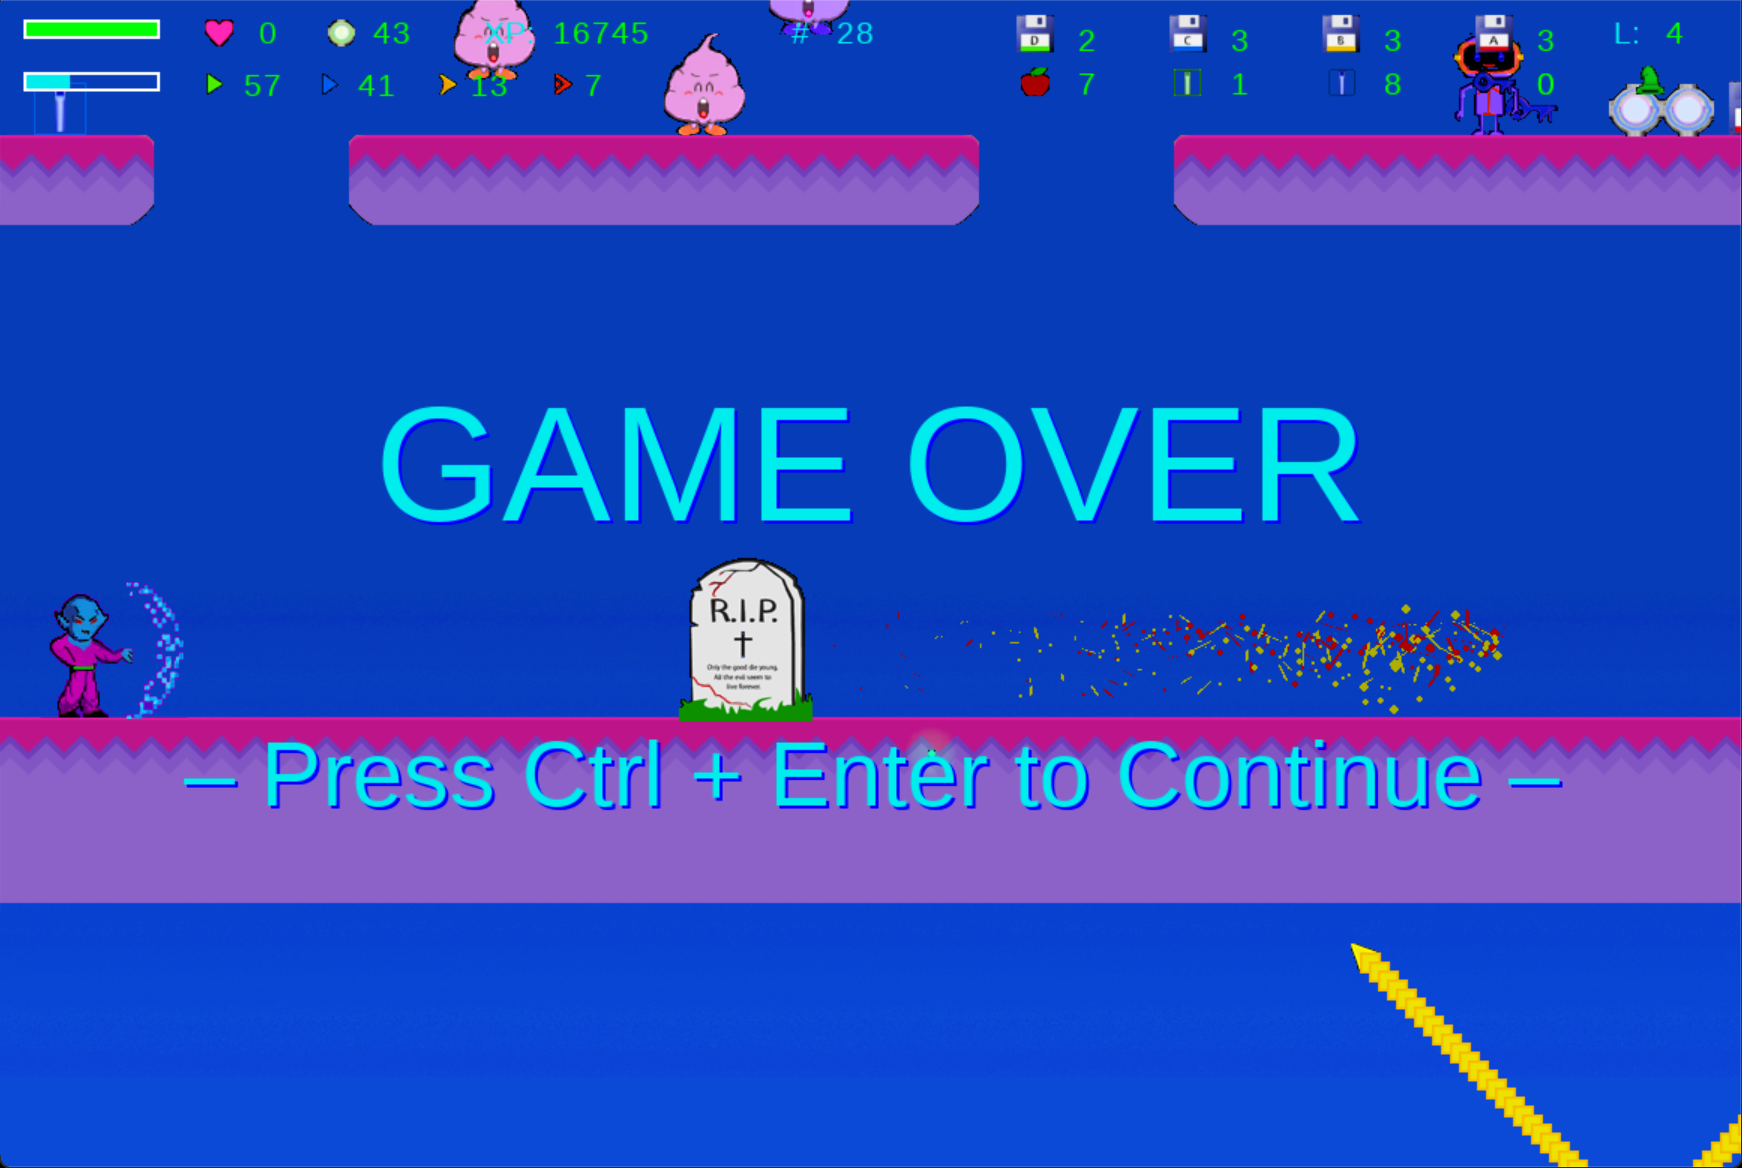
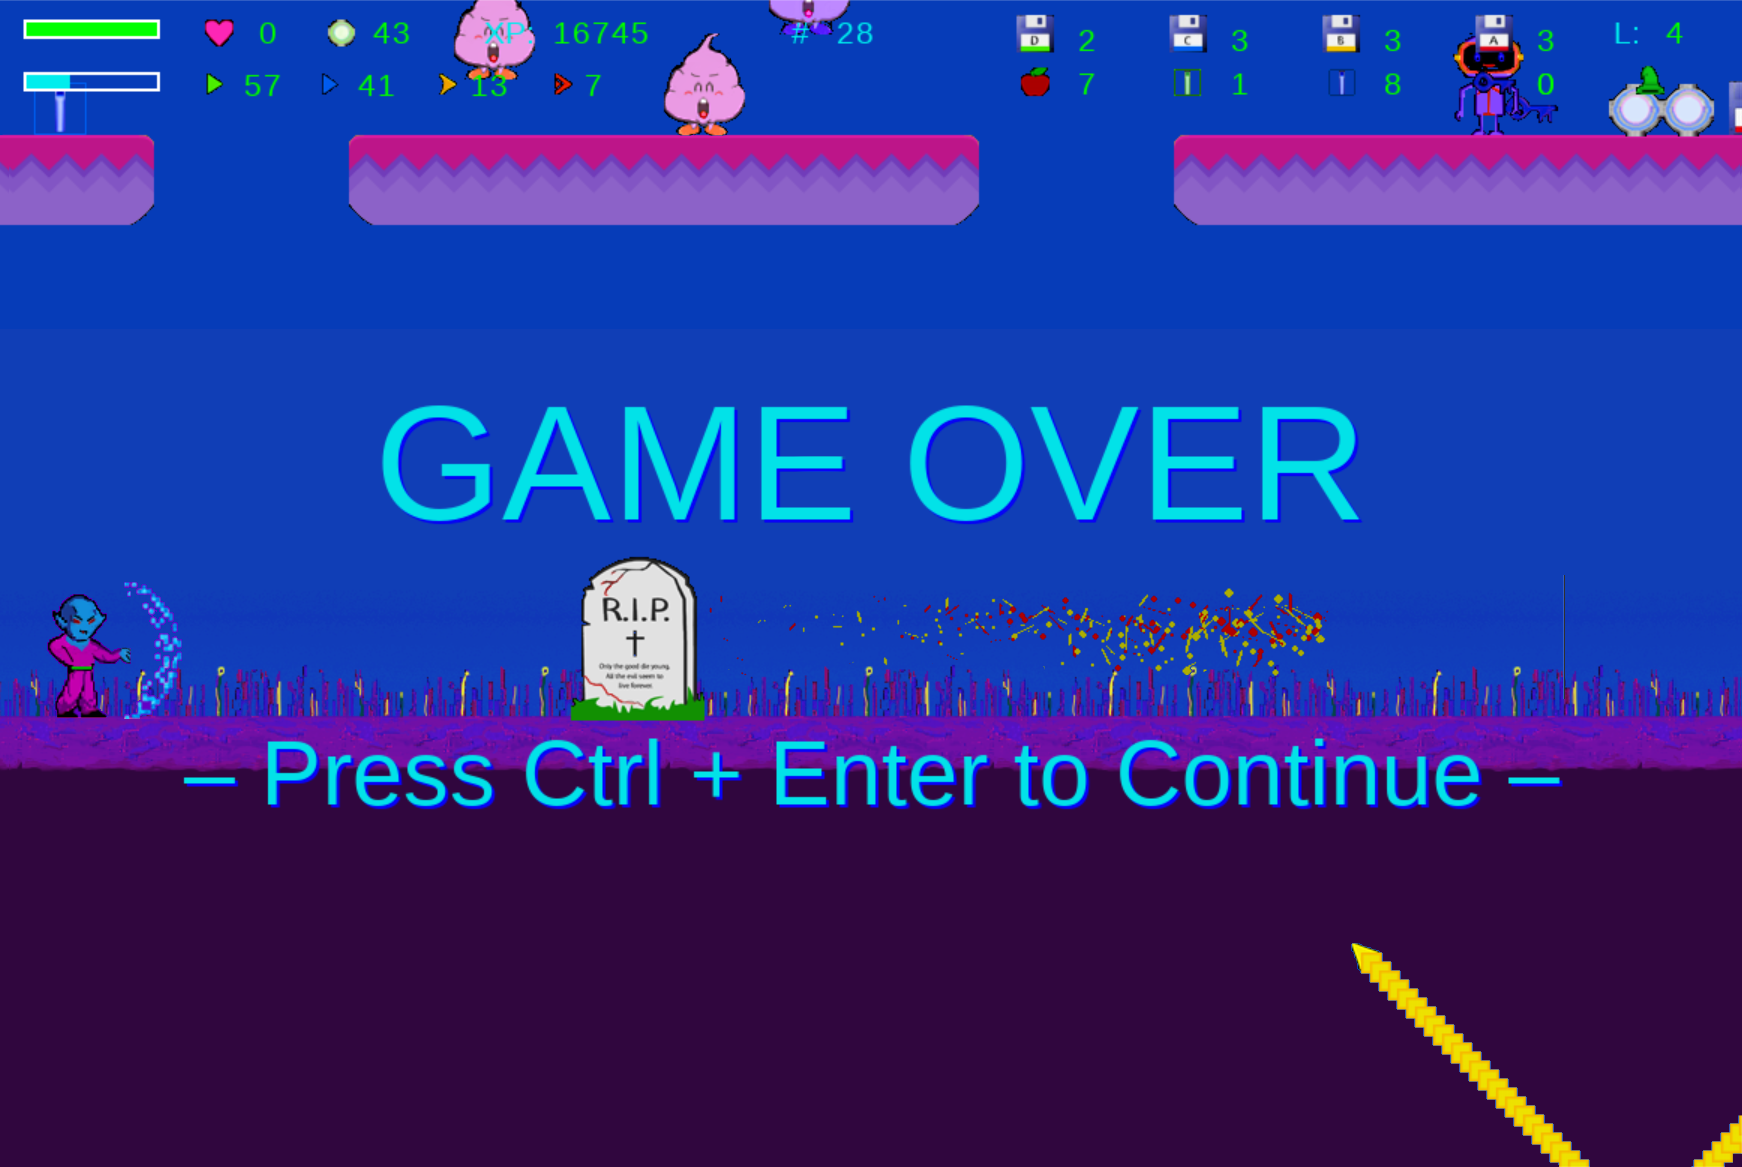
[IMP] Add grass to the rest of the levels. Also, improve documentation.

diff --git a/suiteoftests/levels/level_test_05.py b/suiteoftests/levels/level_test_05.py
@@ -109,7 +109,7 @@ class LevelTest5(Level):
 
         # Add doors
         self.doors.add([
-            DoorLeftMagenta(2, 550, self.game, level_dest=3, door_dest_pos=DOOR_DEST_NL, is_locked=True),
+            DoorLeftMagenta(0, 550, self.game, level_dest=3, door_dest_pos=DOOR_DEST_NL, is_locked=True),
             DoorRightGreen(3480, 52, self.game, level_dest=6, door_dest_pos=DOOR_DEST_TR, is_locked=True),
             DoorRightYellow(3640, 550, self.game, level_dest=5, door_dest_pos=DOOR_DEST_NL, is_locked=True),
             ])

diff --git a/suiteoftests/levels/level_test_03.py b/suiteoftests/levels/level_test_03.py
@@ -106,7 +106,7 @@ class LevelTest3(Level):
 
         # Add doors
         self.doors.add([
-            DoorLeftGreen(2, 550, self.game, level_dest=1, door_dest_pos=DOOR_DEST_NL, is_locked=True),
+            DoorLeftGreen(0, 550, self.game, level_dest=1, door_dest_pos=DOOR_DEST_NL, is_locked=True),
             DoorRightAqua(3368, -18, self.game, level_dest=3, door_dest_pos=DOOR_DEST_TR, is_locked=True),
             DoorRightBlue(3640, 550, self.game, level_dest=3, door_dest_pos=DOOR_DEST_NL, is_locked=True),
             ])

diff --git a/suiteoftests/levels/level_test_09.py b/suiteoftests/levels/level_test_09.py
@@ -89,7 +89,7 @@ class LevelTest9(Level):
 
         # Add doors
         self.doors.add([
-            DoorLeftYellow(2, 550, self.game, level_dest=7, door_dest_pos=DOOR_DEST_NL, is_locked=True),
+            DoorLeftYellow(0, 550, self.game, level_dest=7, door_dest_pos=DOOR_DEST_NL, is_locked=True),
             DoorRightAqua(3368, -18, self.game, level_dest=0, door_dest_pos=DOOR_DEST_TR, is_locked=True),
             DoorRightBlue(3640, 550, self.game, level_dest=0, door_dest_pos=DOOR_DEST_NL, is_locked=True),
             ])

diff --git a/codemaster/levels/level_04.py b/codemaster/levels/level_04.py
@@ -139,7 +139,7 @@ class Level4(Level):
         # Add doors
         self.doors.add([
             DoorRightBlue(3500, 550, self.game, level_dest=0, door_dest_pos=DOOR_DEST_NL),
-            DoorLeftYellow(2, 550, self.game, level_dest=2, door_dest_pos=DOOR_DEST_NL),
+            DoorLeftYellow(0, 550, self.game, level_dest=2, door_dest_pos=DOOR_DEST_NL),
             DoorRightYellow(2854, -179, self.game, level_dest=4, door_dest_pos=DOOR_DEST_NL, is_locked=True),
             ])
 

diff --git a/codemaster/levels/level_06.py b/codemaster/levels/level_06.py
@@ -237,7 +237,7 @@ class Level6(Level):
 
         # Add doors
         self.doors.add([
-            DoorLeftRed(2, 550, self.game, level_dest=4, door_dest_pos=DOOR_DEST_NL),
+            DoorLeftRed(0, 550, self.game, level_dest=4, door_dest_pos=DOOR_DEST_NL),
             DoorLeftAqua(2786, -90, self.game, level_dest=8, door_dest_pos=DOOR_DEST_TR, is_locked=True),
             DoorRightGreen(3400, 550, self.game, level_dest=6, door_dest_pos=DOOR_DEST_NL),
             ])

diff --git a/codemaster/levels/level_13.py b/codemaster/levels/level_13.py
@@ -105,7 +105,7 @@ class Level13(Level):
 
         # Add doors
         self.doors.add([
-            DoorLeftAqua(2, 550, self.game, level_dest=11, door_dest_pos=DOOR_DEST_NL),
+            DoorLeftAqua(0, 550, self.game, level_dest=11, door_dest_pos=DOOR_DEST_NL),
             DoorRightMagenta(3480, 52, self.game, level_dest=16, door_dest_pos=DOOR_DEST_TR),
             DoorRightGreen(3640, 550, self.game, level_dest=13, door_dest_pos=DOOR_DEST_NL),
             ])

diff --git a/codemaster/levels/level_17.py b/codemaster/levels/level_17.py
@@ -122,7 +122,7 @@ class Level17(Level):
 
         # Add doors
         self.doors.add([
-            DoorLeftRed(2, 550, self.game, level_dest=15, door_dest_pos=DOOR_DEST_NL),
+            DoorLeftRed(0, 550, self.game, level_dest=15, door_dest_pos=DOOR_DEST_NL),
             DoorRightMagenta(3368, -18, self.game, level_dest=12, door_dest_pos=DOOR_DEST_TR),
             DoorRightYellow(3640, 550, self.game, level_dest=17, door_dest_pos=DOOR_DEST_NL),
             ])

diff --git a/codemaster/levels/level_22.py b/codemaster/levels/level_22.py
@@ -116,7 +116,7 @@ class Level22(Level):
 
         # Add doors
         self.doors.add([
-            DoorLeftYellow(2, 550, self.game, level_dest=20, door_dest_pos=DOOR_DEST_NL),
+            DoorLeftYellow(0, 550, self.game, level_dest=20, door_dest_pos=DOOR_DEST_NL),
             DoorRightAqua(3480, 52, self.game, level_dest=18, door_dest_pos=DOOR_DEST_TR),
             DoorRightBlue(3640, 550, self.game, level_dest=22, door_dest_pos=DOOR_DEST_NL),
             ])

diff --git a/codemaster/levels/level_19.py b/codemaster/levels/level_19.py
@@ -85,7 +85,7 @@ class Level19(Level):
 
         # Add doors
         self.doors.add([
-            DoorLeftBlue(2, 550, self.game, level_dest=17, door_dest_pos=DOOR_DEST_NL),
+            DoorLeftBlue(0, 550, self.game, level_dest=17, door_dest_pos=DOOR_DEST_NL),
             DoorRightAqua(3480, 52, self.game, level_dest=21, door_dest_pos=DOOR_DEST_TR),
             DoorRightMagenta(3640, 550, self.game, level_dest=19, door_dest_pos=DOOR_DEST_NL),
             ])

diff --git a/codemaster/levels/level_09.py b/codemaster/levels/level_09.py
@@ -130,7 +130,7 @@ class Level9(Level):
 
         # Add doors
         self.doors.add([
-            DoorLeftWhite(2, 550, self.game, level_dest=7, door_dest_pos=DOOR_DEST_NL),
+            DoorLeftWhite(0, 550, self.game, level_dest=7, door_dest_pos=DOOR_DEST_NL),
             DoorRightAqua(3368, -18, self.game, level_dest=5, door_dest_pos=DOOR_DEST_TR),
             DoorRightYellow(3640, 550, self.game, level_dest=9, door_dest_pos=DOOR_DEST_NL),
             ])

diff --git a/codemaster/levels/level_23.py b/codemaster/levels/level_23.py
@@ -108,7 +108,7 @@ class Level23(Level):
 
         # Add doors
         self.doors.add([
-            DoorLeftBlue(2, 550, self.game, level_dest=21, door_dest_pos=DOOR_DEST_NL),
+            DoorLeftBlue(0, 550, self.game, level_dest=21, door_dest_pos=DOOR_DEST_NL),
             DoorRightAqua(3480, 52, self.game, level_dest=29, door_dest_pos=DOOR_DEST_TR),
             DoorRightRed(3640, 550, self.game, level_dest=23, door_dest_pos=DOOR_DEST_NL),
             ])

diff --git a/codemaster/level_scroll_screen.py b/codemaster/level_scroll_screen.py
@@ -27,7 +27,7 @@ def level_scroll_shift_control(game):
 
     # If the player gets near the left side, shift the world right (+x)
     if game.player.rect.left <= SCROLL_NEAR_LEFT_SIDE:
-        if game.level.world_shift < 0:
+        if game.level.world_shift < -3:
             diff = SCROLL_NEAR_LEFT_SIDE - game.player.rect.left
             game.player.rect.left = SCROLL_NEAR_LEFT_SIDE
             diff and game.level.shift_world(diff)
